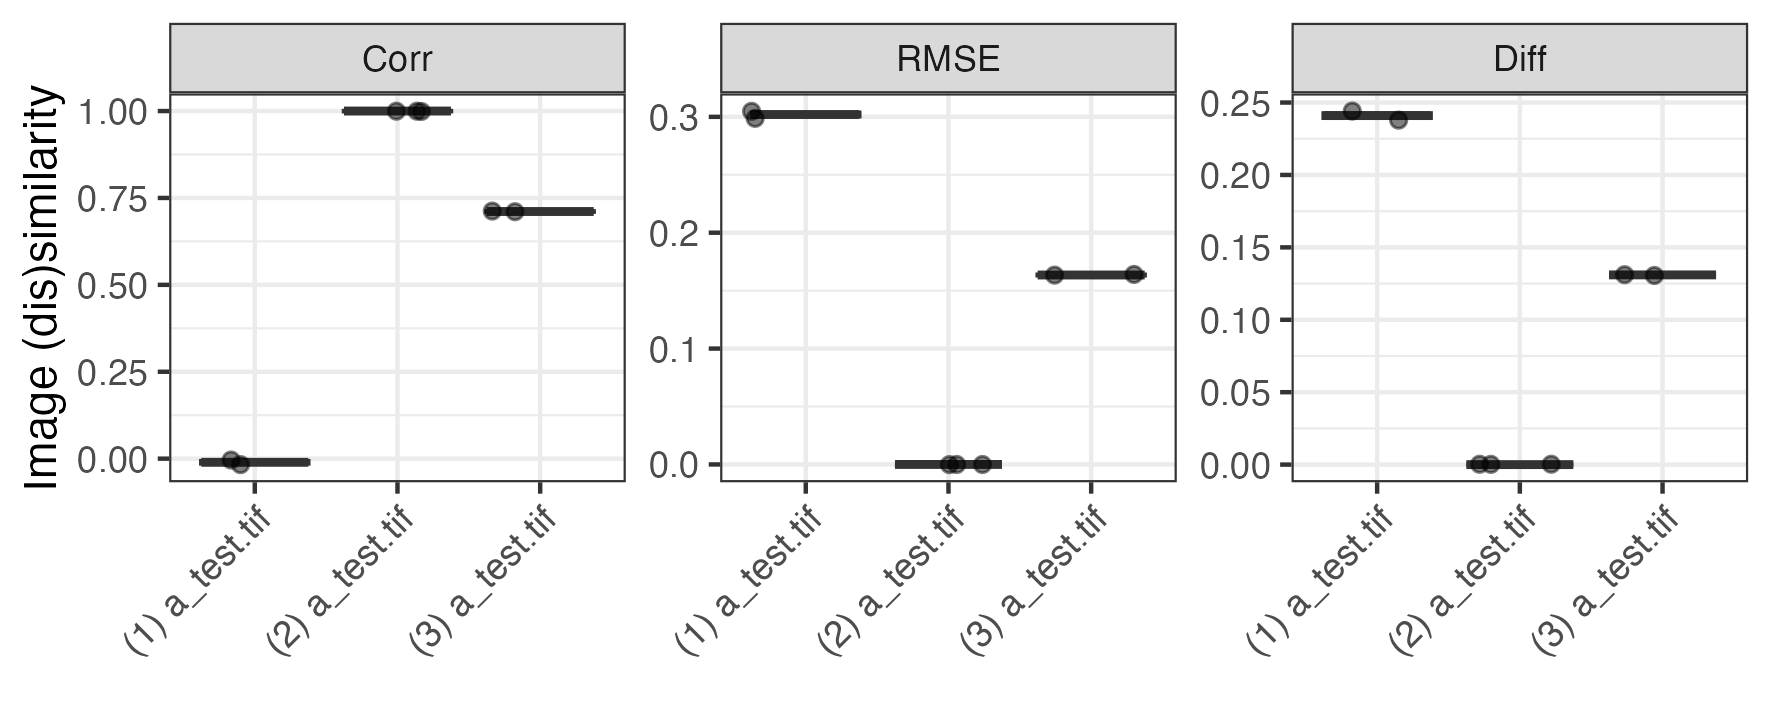
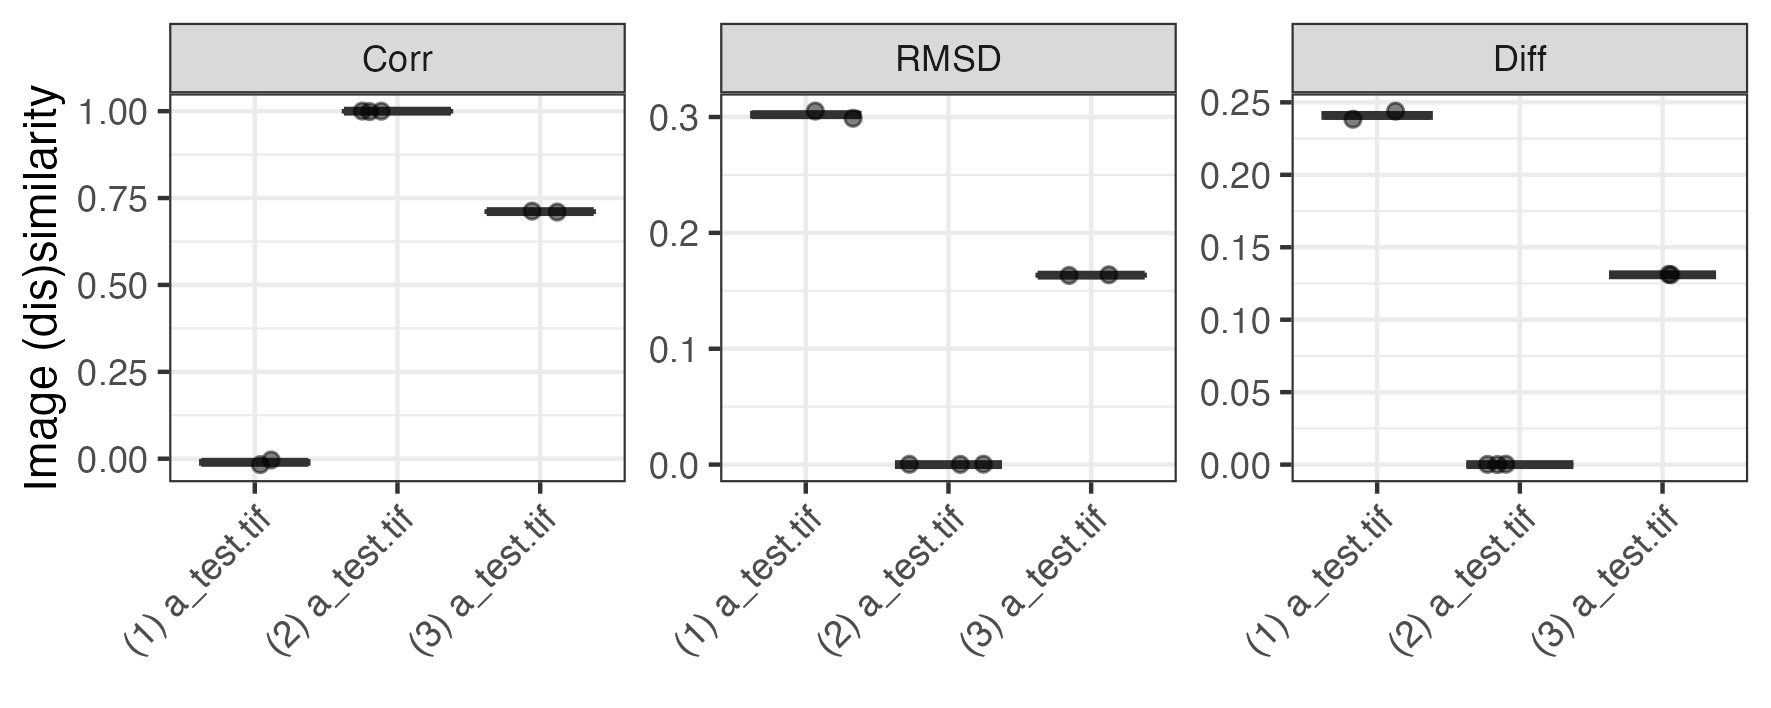
fixed typo

diff --git a/image-distance-extended-MoreMeasures-ROIs.js b/image-distance-extended-MoreMeasures-ROIs.js
@@ -127,7 +127,7 @@ for (var i = 0; i < files.length; i++) {
             var diffSum = 0;
             var corrTerm1 = 0;
             var pixelCount = 0;
-            var RMSEterm1 = 0;
+            var RMSDterm1 = 0;
             var pixels1 = [];
             var pixels2 = [];
 
@@ -161,10 +161,10 @@ for (var i = 0; i < files.length; i++) {
             // Function to get percentile value
             function getPercentile(sortedArr, p) {
                 var idx = Math.floor(p * sortedArr.length);
-                print("idx = " + idx);
-                print(java.util.Arrays.toString(sortedArr));
+                //print("idx = " + idx);
+                // print(java.util.Arrays.toString(sortedArr));
                 var percentile_val = sortedArr[Math.max(0, Math.min(sortedArr.length - 1, idx))]
-                print("percentile_val = " + percentile_val);
+                //print("percentile_val = " + percentile_val);
                 return percentile_val;
             }
             
@@ -194,8 +194,8 @@ for (var i = 0; i < files.length; i++) {
                                                 
                         // Calculate difference
                         diffSum += Math.abs(pixel1_norm - pixel2_norm);
-                        // Calculate RMSE term
-                        RMSEterm1 += Math.pow(pixel1_norm - pixel2_norm, 2);
+                        // Calculate RMSD term
+                        RMSDterm1 += Math.pow(pixel1_norm - pixel2_norm, 2);
                         // Calculate term for correlation
                         corrTerm1 += (pixel1 - meanIntensity1) * (pixel2 - meanIntensity2);
 
@@ -203,9 +203,9 @@ for (var i = 0; i < files.length; i++) {
                 }
             }
             
-            // Calculate mean difference, RMSE and Pearson correlation
+            // Calculate mean difference, RMSD and Pearson correlation
             var meanDifference = diffSum / pixelCount;
-            var RMSE = Math.sqrt(RMSEterm1 / pixelCount);
+            var RMSD = Math.sqrt(RMSDterm1 / pixelCount);
             var pearsonCorrelation = corrTerm1 / (std1 * std2 * pixelCount); // pixelCount added because std1 = std1'/sqrt(pixelCount)
 
             /*
@@ -235,7 +235,7 @@ for (var i = 0; i < files.length; i++) {
             results.addValue("ROI Name", roiName);
             results.addValue("Mean Difference", meanDifference);
             results.addValue("Pearson Corr", pearsonCorrelation);
-            results.addValue("RMSE", RMSE);
+            results.addValue("RMSD", RMSD);
         }
         // Now save the processed images
                             
